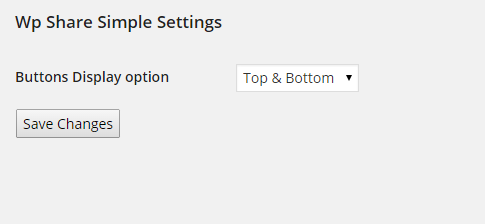
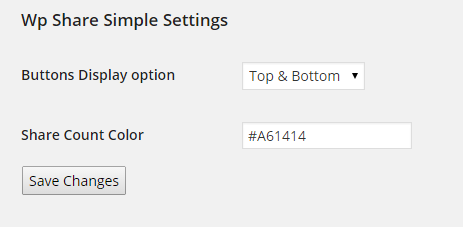
Added option to change the share count color Screenshot updated
git-svn-id: https://plugins.svn.wordpress.org/wp-share-simple/trunk@1090061 b8457f37-d9ea-0310-8a92-e5e31aec5664

diff --git a/wp-share-admin.php b/wp-share-admin.php
@@ -1,11 +1,12 @@
-<?php 
+
+<?php
 /**
- * WP share simple Admin Options File 
+ * WP share simple Admin Options File
  */
 
 function wp_share_simple_admin_page() {
 add_options_page('WP Share Simple', 'WP Share Simple', 'manage_options', 'wp_share_simple', 'wp_share_simple_options_page');
-} 
+}
 add_action('admin_menu', 'wp_share_simple_admin_page');
 
 function wp_share_simple_options_page () {
@@ -27,14 +28,28 @@ register_setting( 'wp_share_simple_options', 'wp_share_simple_options');
 add_settings_section('wp_share_simple_main', 'Wp Share Simple Settings', 'wp_share_simple_dummy_text', 'wp_share_simple');
 // Add field to it
 add_settings_field('wp_share_simple_button_option', 'Buttons Display option', 'wp_share_simple_button_option', 'wp_share_simple', 'wp_share_simple_main');
+// Share count Color
+add_settings_field('wp_share_simple_count_color', 'Share Count Color', 'wp_share_simple_count_color', 'wp_share_simple', 'wp_share_simple_main');
 }
 
 add_action('admin_init', 'wp_share_simple_admin_init');
 
 function wp_share_simple_dummy_text() {
   echo '';
-} 
+}
 
+function wp_share_simple_count_color() {
+    $options = get_option('wp_share_simple_options');
+    $val =  $options != null ? $options['count_color'] : '#999';
+
+    if($val == null || $val=='')
+    {
+        $val = '#999';
+    }
+
+    echo "<input type='text' id='wp_share_simple_count_color' name='wp_share_simple_options[count_color]' value='$val'/>";
+
+}
 
 // one of the plugin field.
 function wp_share_simple_button_option () {
@@ -42,16 +57,16 @@ function wp_share_simple_button_option () {
     $val =  $options != null ? $options['display_option'] : 'both';
     if($val == null or $val =='')
     {
-        // Default display         
+        // Default display
         $val = 'both';
     }
     // Manual option for next release
     //$optionManual = $val =='manual' ? " <option value = 'manual' checked>Manual</option>":" <option value = 'manual'>Manual</option>";
-    
+
     $optionTop    = $val == 'top' ? "<option value = 'top' selected>Top Only</option>":"  <option value = 'top'>Top Only</option>";
     $optionBottom = $val == 'bottom' ? "<option value = 'bottom' selected> Bottom Only</option>" :"<option value = 'bottom'> Bottom Only</option>";
     $optionBoth   = $val == 'both' ? "<option value = 'both' selected>Top & Bottom </option>":"<option value = 'both'>Top & Bottom </option>";
-   
+
     echo "<select id = 'wp_share_simple_button_option' name='wp_share_simple_options[display_option]'>";
     echo $optionTop.$optionBottom.$optionBoth;
     echo "</select>";
